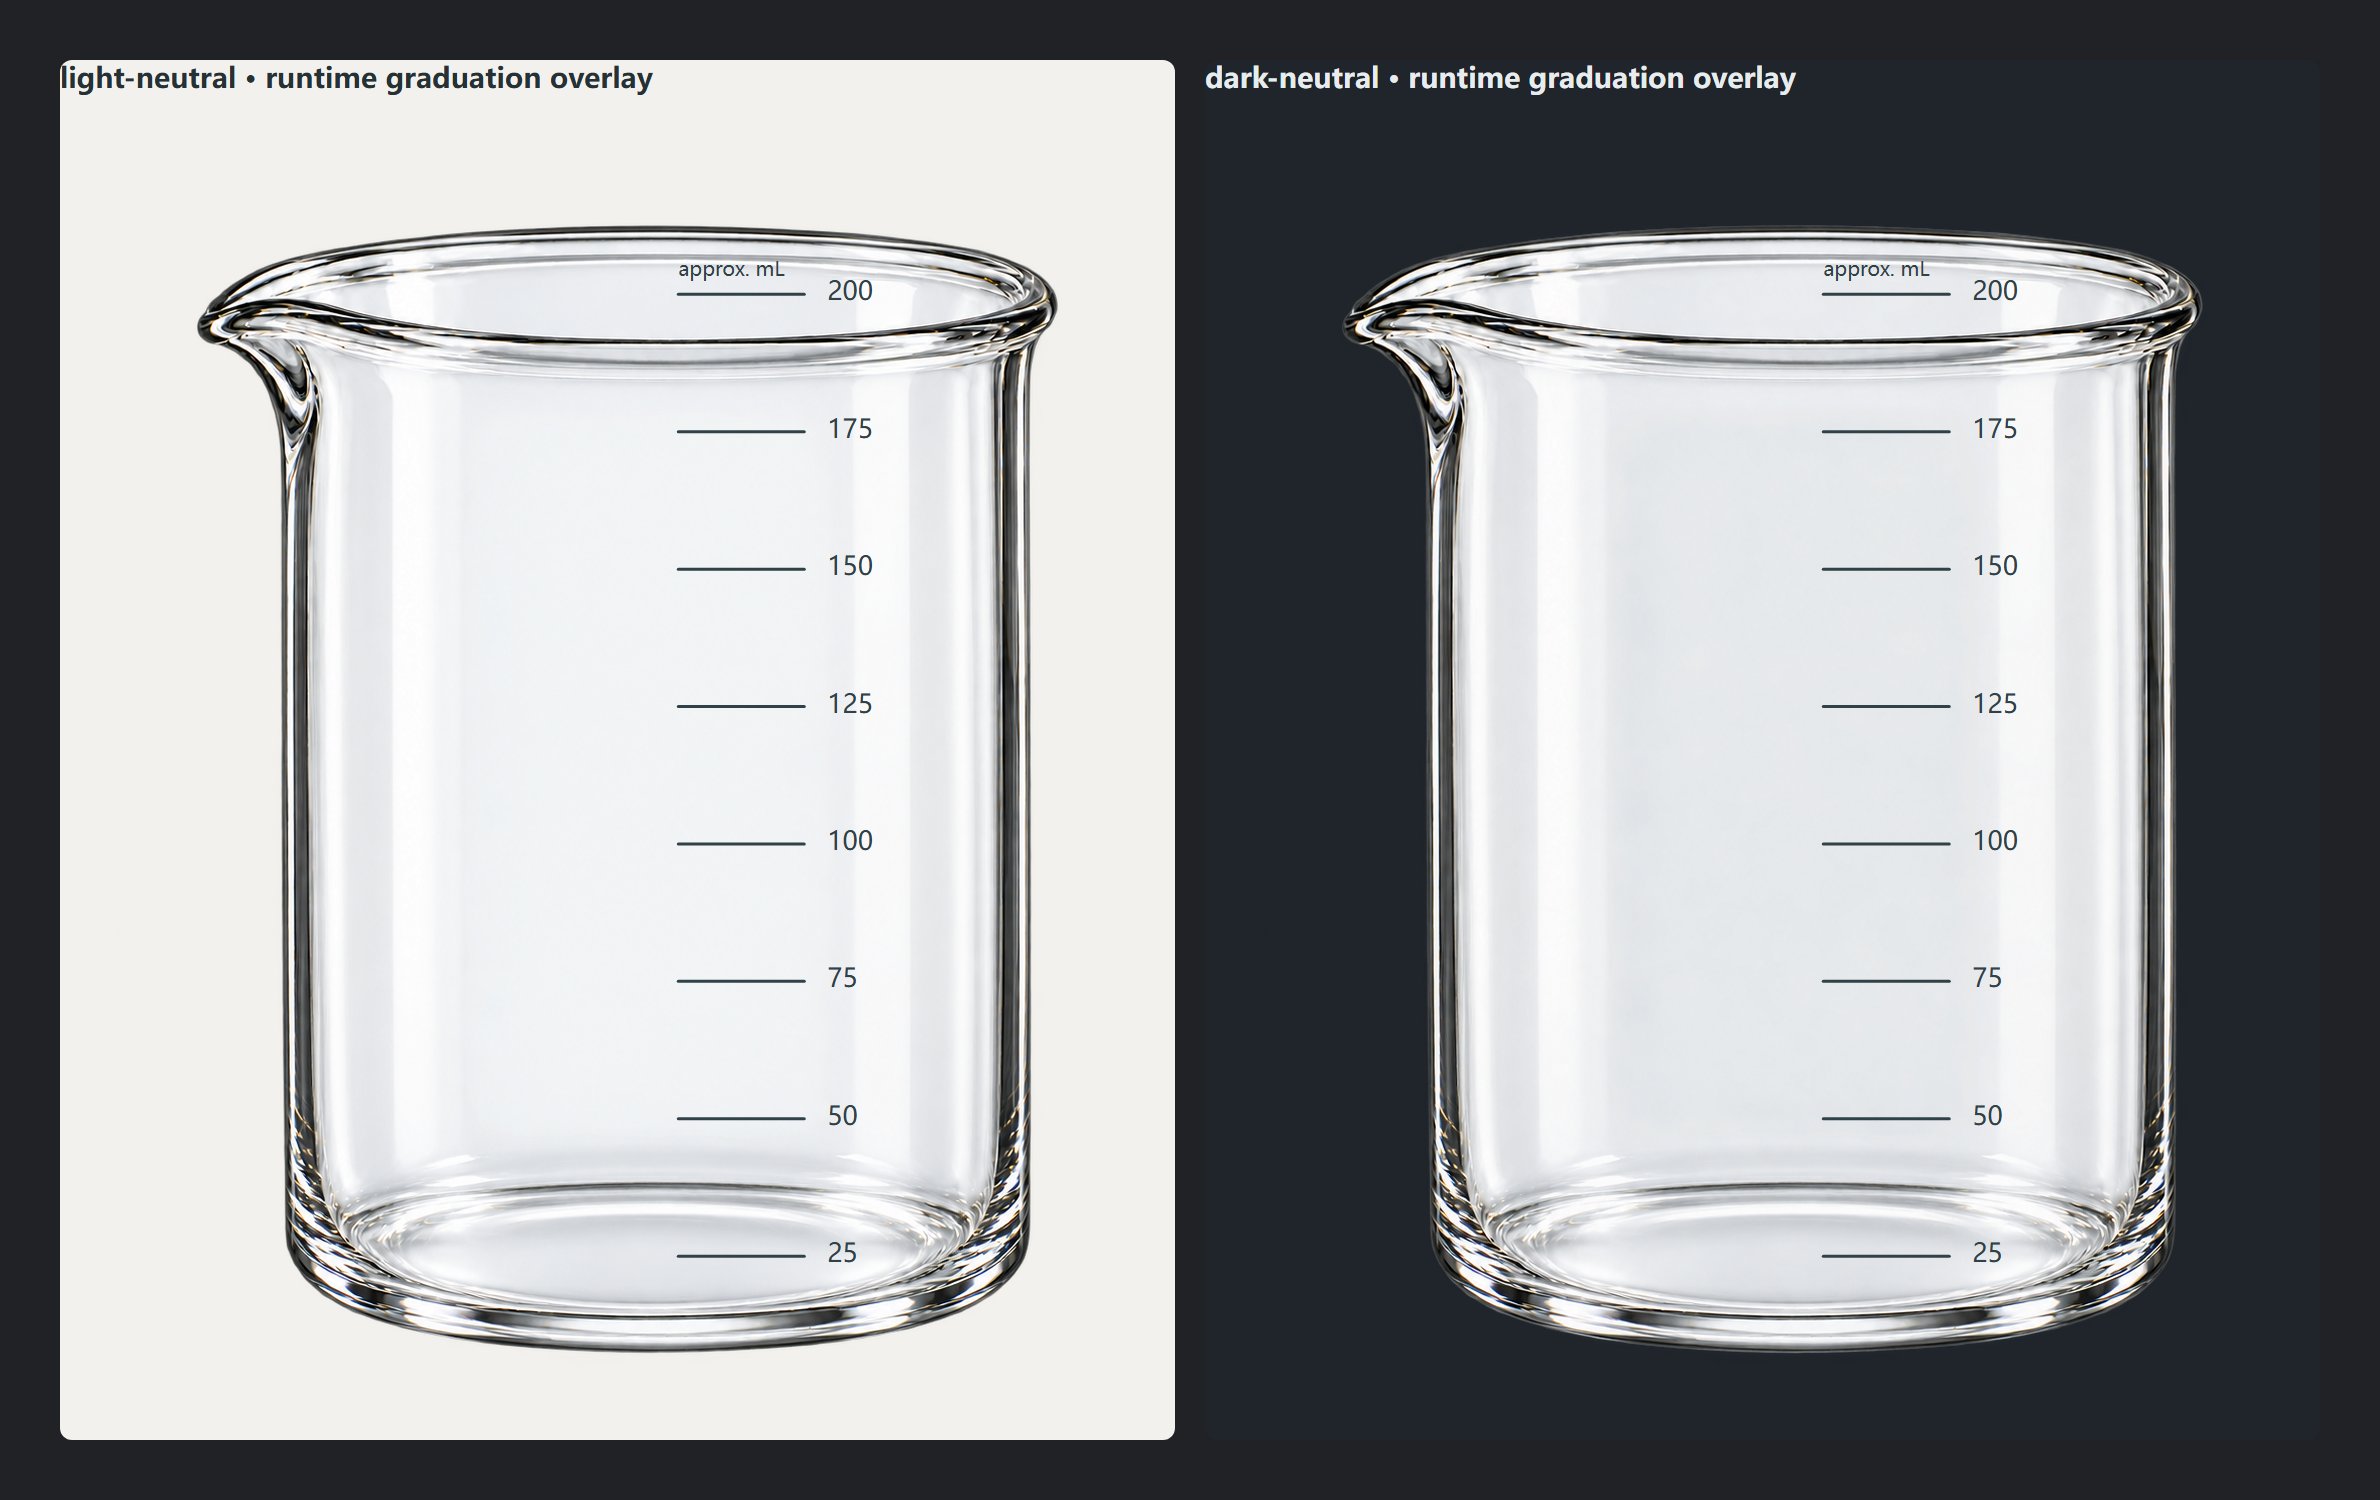
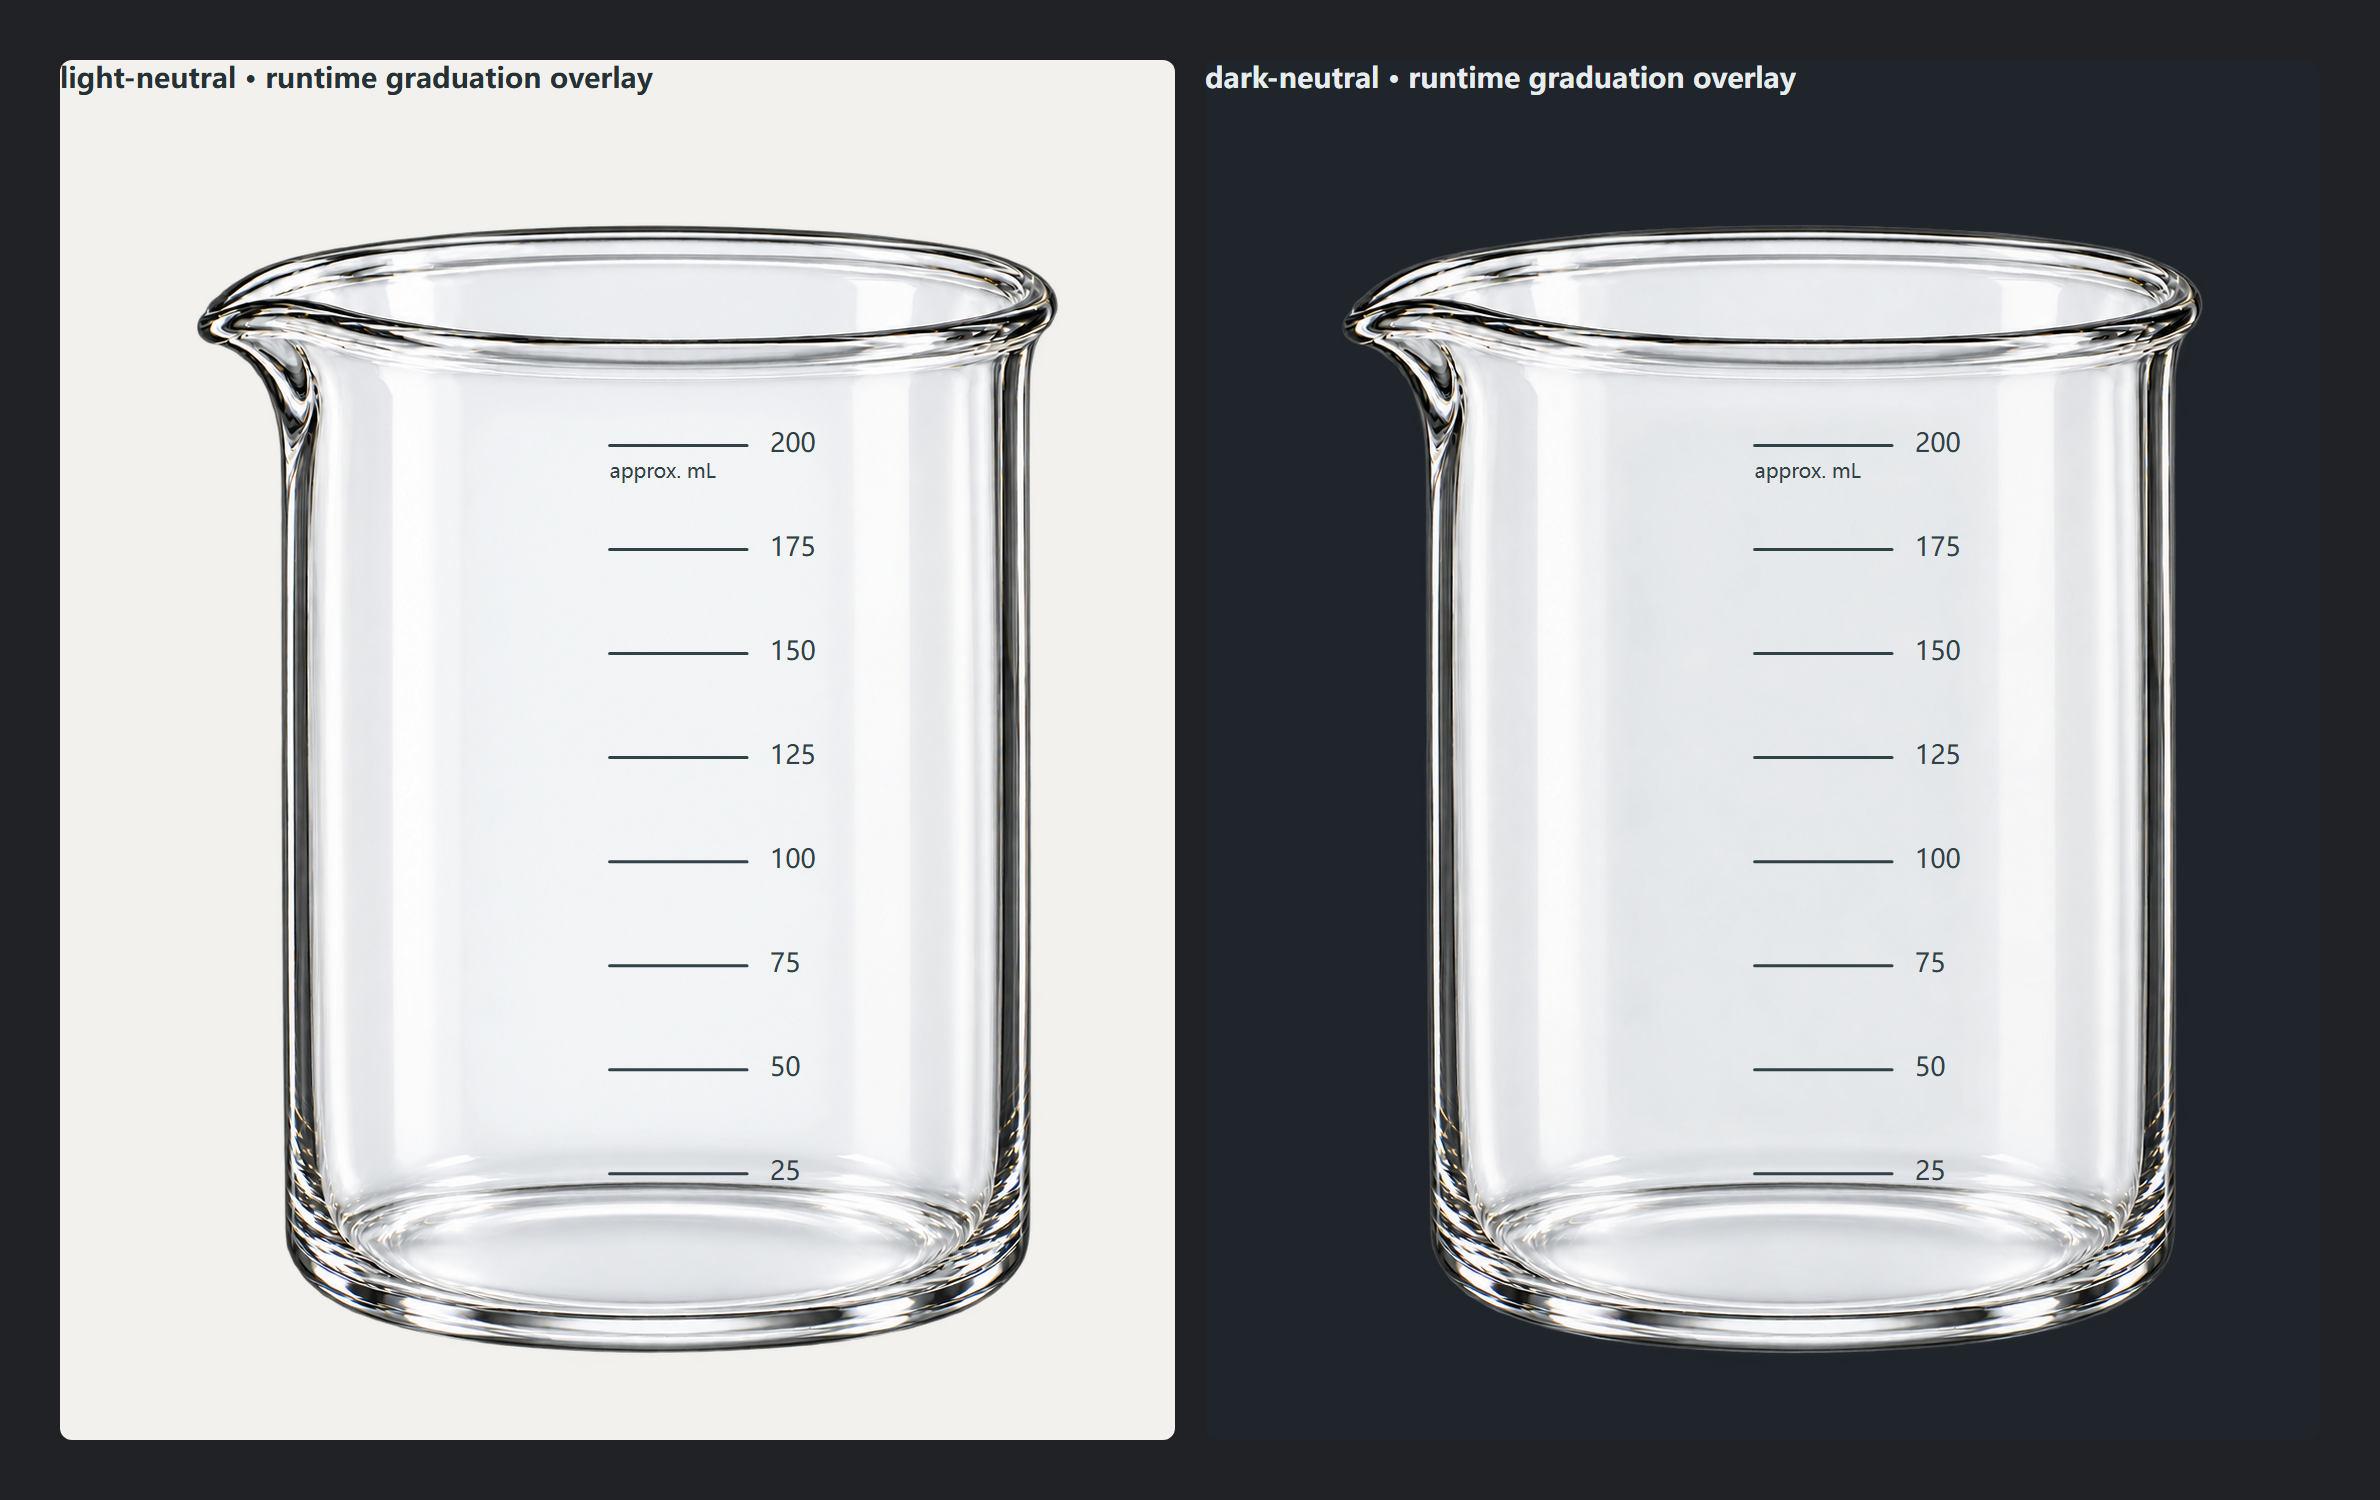
Keep beaker graduation labels inside vessel

diff --git a/assets/apparatus/masters/beaker-250ml/source/visual-body/runtime/README.md b/assets/apparatus/masters/beaker-250ml/source/visual-body/runtime/README.md
@@ -37,6 +37,14 @@ manifest does not duplicate those values. The eventual runtime layer must use
 the existing `InstrumentMarking` contract and shared formatter/LOD policy. It
 must not parse or infer graduation values from pixels in `body.png`.
 
+The manifest also declares a per-specification normalized graduation box with
+independent horizontal/vertical placement and a larger endpoint-safe clip box.
+This is intentional: different vessel sizes and body artworks must not stretch
+marks to the mouth or base, and the top/bottom labels must not be clipped at
+the first or last graduation. The 250 mL candidate leaves a visible clearance
+below the rim and above the contact base; other specifications must publish
+their own scale and label-safe calibration box.
+
 ## Liquid ownership
 
 Liquid height must come from a validated `VolumeProfileSnapshot` through the
